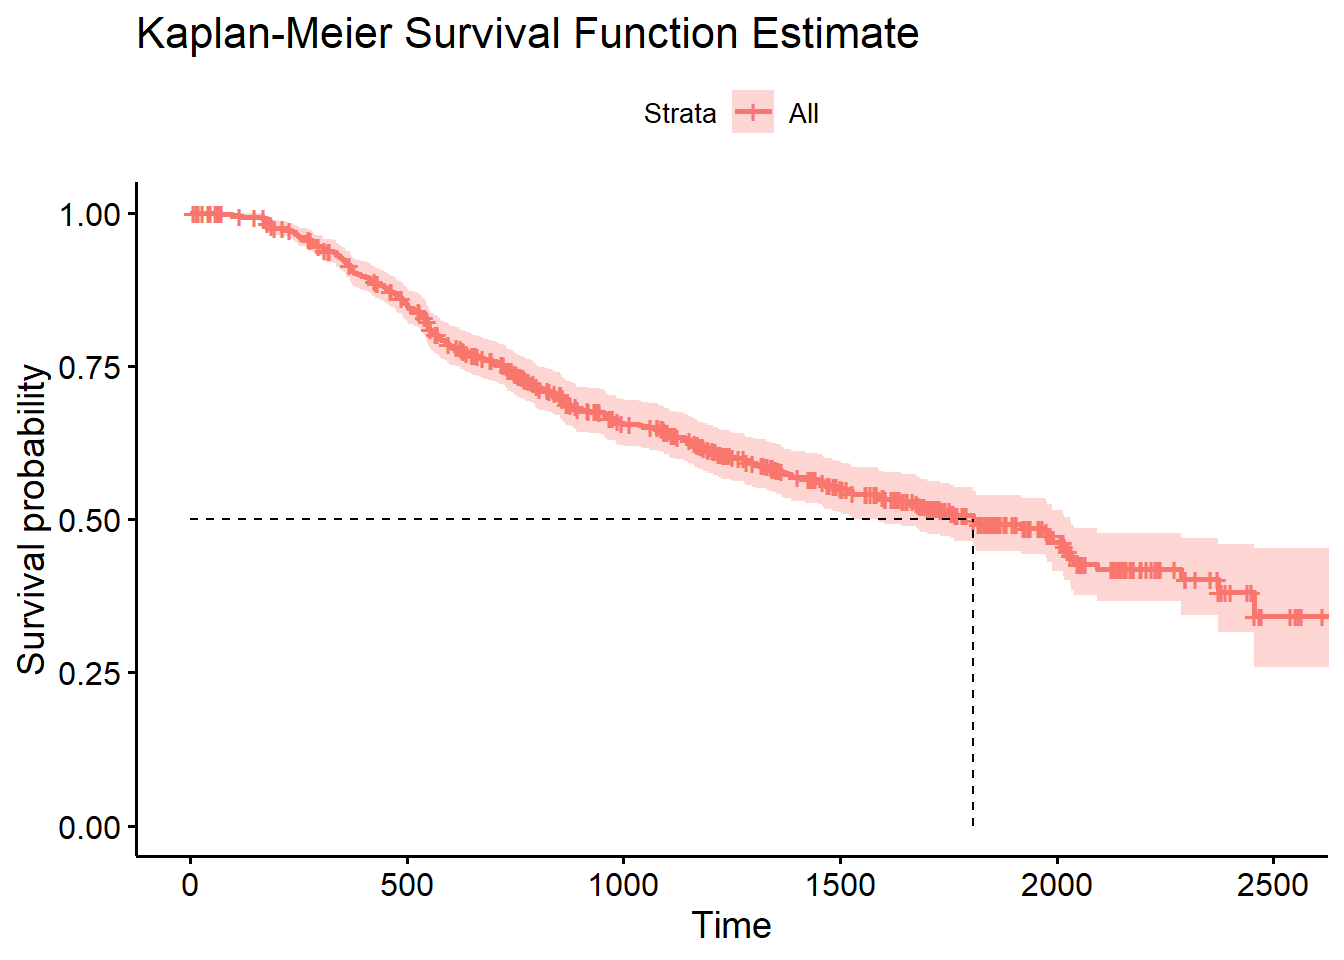
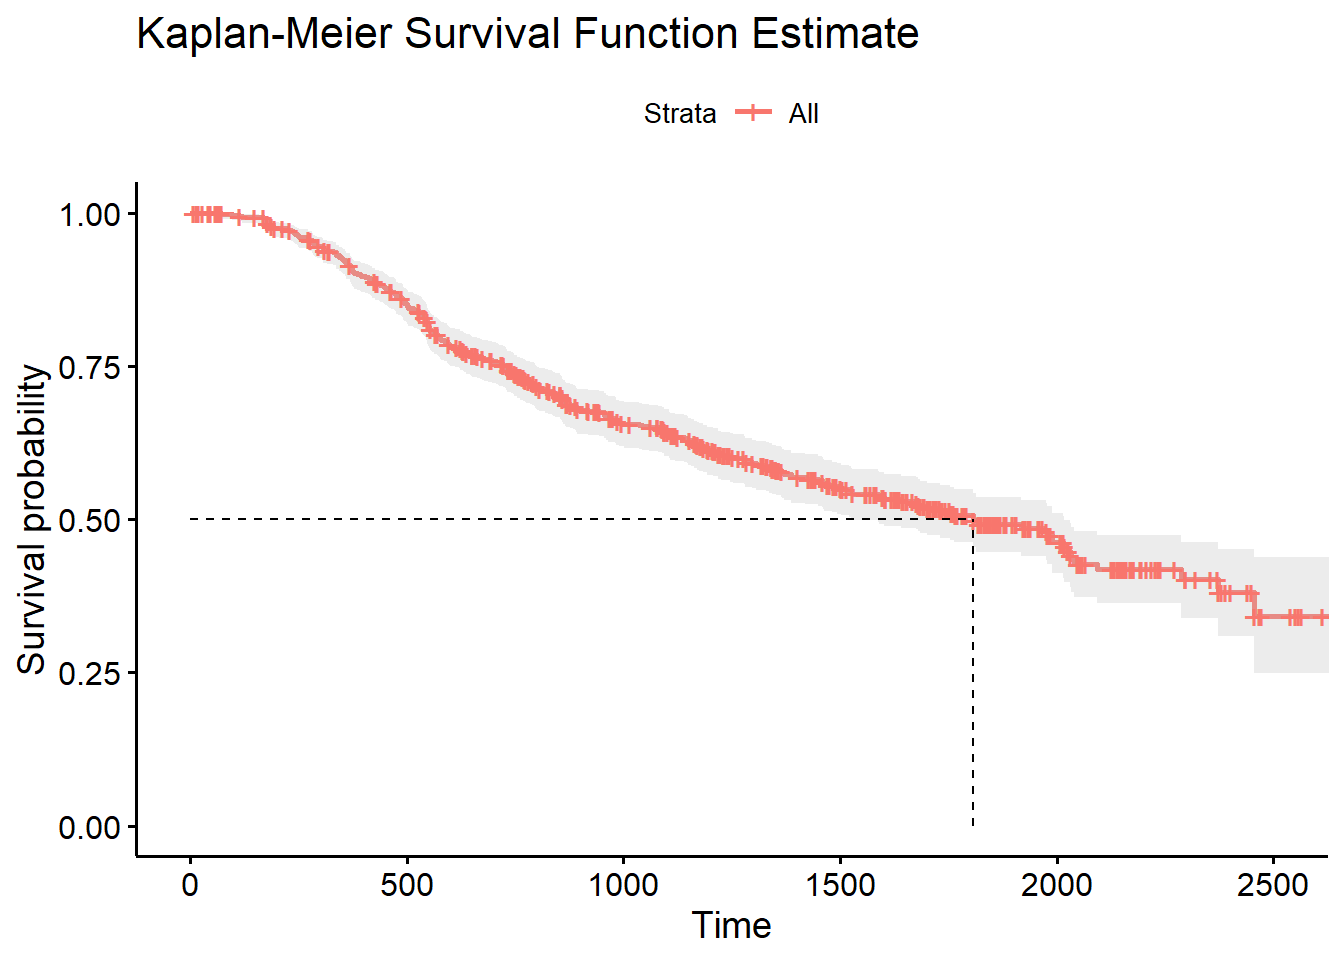
Finished Kaplan-Meier

Changed region(s): [[0.2188, 0.2188, 1.0, 0.7188], [0.5312, 0.0938, 0.5938, 0.1562]]

diff --git a/_book/survival-curve-estimation.html b/_book/survival-curve-estimation.html
@@ -24,7 +24,7 @@
 <meta name="author" content="Michael Foley" />
 
 
-<meta name="date" content="2020-06-01" />
+<meta name="date" content="2020-06-03" />
 
   <meta name="viewport" content="width=device-width, initial-scale=1" />
   <meta name="apple-mobile-web-app-capable" content="yes" />
@@ -258,6 +258,8 @@ code span.wa { color: #60a0b0; font-weight: bold; font-style: italic; } /* Warni
 <li class="chapter" data-level="14.1" data-path="survival-theory.html"><a href="survival-theory.html"><i class="fa fa-check"></i><b>14.1</b> Survival Theory</a></li>
 <li class="chapter" data-level="14.2" data-path="survival-curve-estimation.html"><a href="survival-curve-estimation.html"><i class="fa fa-check"></i><b>14.2</b> Survival Curve Estimation</a><ul>
 <li class="chapter" data-level="14.2.1" data-path="survival-curve-estimation.html"><a href="survival-curve-estimation.html#kaplan-meier"><i class="fa fa-check"></i><b>14.2.1</b> Kaplan-Meier</a></li>
+<li class="chapter" data-level="14.2.2" data-path="survival-curve-estimation.html"><a href="survival-curve-estimation.html#weibull"><i class="fa fa-check"></i><b>14.2.2</b> Weibull</a></li>
+<li class="chapter" data-level="14.2.3" data-path="survival-curve-estimation.html"><a href="survival-curve-estimation.html#cox"><i class="fa fa-check"></i><b>14.2.3</b> Cox</a></li>
 </ul></li>
 <li class="chapter" data-level="14.3" data-path="survival-curve-estimation-1.html"><a href="survival-curve-estimation-1.html"><i class="fa fa-check"></i><b>14.3</b> Survival Curve Estimation</a></li>
 <li class="chapter" data-level="14.4" data-path="proportional-hazards-model.html"><a href="proportional-hazards-model.html"><i class="fa fa-check"></i><b>14.4</b> Proportional Hazards Model</a><ul>
@@ -308,8 +310,8 @@ code span.wa { color: #60a0b0; font-weight: bold; font-style: italic; } /* Warni
 <h3><span class="header-section-number">14.2.1</span> Kaplan-Meier</h3>
 <p>The Kaplan-Meier estimator for the survival function is</p>
 <p><span class="math display">\[\hat{S} = \prod_{i: t_i &lt; t}{\frac{n_i - d_i}{n_i}}\]</span></p>
-<p>where <span class="math inline">\(n_i\)</span> is the number of persons under observation at time <span class="math inline">\(i\)</span> and <span class="math inline">\(d_i\)</span> is the number of individuals dying at time <span class="math inline">\(i\)</span>. The Kaplan-Meier curve falls only when a subject dies, not when a subject is censored. Calculate the Kaplan-Meier estimate with the <code>survfit()</code> function.</p>
-<p>Here is an example of a Kaplan-Meier survival function estimate. <code>GBSG2</code> contains time to death of 686 breast cancer patients. Column <code>cens</code> indicates whether or not a person in the study has died (0-censored, 1-event).</p>
+<p>where <span class="math inline">\(n_i\)</span> is the number of persons under observation at time <span class="math inline">\(i\)</span> and <span class="math inline">\(d_i\)</span> is the number of individuals dying at time <span class="math inline">\(i\)</span>. The Kaplan-Meier curve falls only when a subject dies, not when a subject is censored. Confidence limits can be calculated using the “delta” method to obtain the variance of <span class="math inline">\(\log \left(\hat{S}(t) \right)\)</span> (see p27 of Moore).</p>
+<p>Calculate the Kaplan-Meier survival function estimate with the <code>survfit()</code> function. Here is an example. <code>GBSG2</code> contains time to death of 686 breast cancer patients. Column <code>cens</code> indicates whether or not a person in the study has died (0-censored, 1-event).</p>
 <div class="sourceCode" id="cb2"><pre class="sourceCode r"><code class="sourceCode r"><span id="cb2-1"><a href="survival-curve-estimation.html#cb2-1"></a><span class="kw">data</span>(GBSG2, <span class="dt">package =</span> <span class="st">&quot;TH.data&quot;</span>)</span>
 <span id="cb2-2"><a href="survival-curve-estimation.html#cb2-2"></a><span class="kw">head</span>(GBSG2)</span></code></pre></div>
 <pre><code>##   horTh age menostat tsize tgrade pnodes progrec estrec time cens
@@ -320,20 +322,32 @@ code span.wa { color: #60a0b0; font-weight: bold; font-style: italic; } /* Warni
 ## 5    no  73     Post    35     II      1      26     65  772    1
 ## 6    no  32      Pre    57    III     24       0     13  448    1</code></pre>
 <p><code>survfit()</code> creates survival curves from a formula or from a previously fitted Cox model. The formula below is an intercept-only model. Structure the response variable as a <code>Surv</code> object.</p>
-<div class="sourceCode" id="cb4"><pre class="sourceCode r"><code class="sourceCode r"><span id="cb4-1"><a href="survival-curve-estimation.html#cb4-1"></a>km_fit &lt;-<span class="st"> </span><span class="kw">survfit</span>(<span class="kw">Surv</span>(time, cens) <span class="op">~</span><span class="st"> </span><span class="dv">1</span>, <span class="dt">data =</span> GBSG2)</span>
+<div class="sourceCode" id="cb4"><pre class="sourceCode r"><code class="sourceCode r"><span id="cb4-1"><a href="survival-curve-estimation.html#cb4-1"></a>km_fit &lt;-<span class="st"> </span><span class="kw">survfit</span>(<span class="kw">Surv</span>(time, cens) <span class="op">~</span><span class="st"> </span><span class="dv">1</span>, <span class="dt">data =</span> GBSG2, <span class="dt">conf.type =</span> <span class="st">&quot;log-log&quot;</span>)</span>
 <span id="cb4-2"><a href="survival-curve-estimation.html#cb4-2"></a>km_fit</span></code></pre></div>
-<pre><code>## Call: survfit(formula = Surv(time, cens) ~ 1, data = GBSG2)
+<pre><code>## Call: survfit(formula = Surv(time, cens) ~ 1, data = GBSG2, conf.type = &quot;log-log&quot;)
 ## 
 ##       n  events  median 0.95LCL 0.95UCL 
-##     686     299    1807    1587    2030</code></pre>
+##     686     299    1807    1528    2018</code></pre>
+<p>The <code>survfit</code> object indicates 686 records (patients), 299 events (deaths), with median survival time of 1807 days, 95% CI of (1528, 2018) days.</p>
 <p>Plot the fitted model with <code>ggsurvplot()</code>. The plus sign (“+”) indicates censored observations.</p>
 <div class="sourceCode" id="cb6"><pre class="sourceCode r"><code class="sourceCode r"><span id="cb6-1"><a href="survival-curve-estimation.html#cb6-1"></a><span class="kw">ggsurvplot</span>(</span>
 <span id="cb6-2"><a href="survival-curve-estimation.html#cb6-2"></a>  <span class="dt">fit =</span> km_fit, </span>
 <span id="cb6-3"><a href="survival-curve-estimation.html#cb6-3"></a>  <span class="dt">linetype =</span> <span class="dv">1</span>, </span>
-<span id="cb6-4"><a href="survival-curve-estimation.html#cb6-4"></a>  <span class="dt">surv.median.line =</span> <span class="st">&quot;hv&quot;</span>,</span>
+<span id="cb6-4"><a href="survival-curve-estimation.html#cb6-4"></a>  <span class="dt">surv.median.line =</span> <span class="st">&quot;hv&quot;</span>, <span class="dt">conf.int =</span> <span class="ot">TRUE</span>,</span>
 <span id="cb6-5"><a href="survival-curve-estimation.html#cb6-5"></a>  <span class="dt">title =</span> <span class="st">&quot;Kaplan-Meier Survival Function Estimate&quot;</span></span>
 <span id="cb6-6"><a href="survival-curve-estimation.html#cb6-6"></a>)</span></code></pre></div>
 <p><img src="data-sci_files/figure-html/unnamed-chunk-5-1.png" width="672" /></p>
+</div>
+<div id="weibull" class="section level3">
+<h3><span class="header-section-number">14.2.2</span> Weibull</h3>
+</div>
+<div id="cox" class="section level3">
+<h3><span class="header-section-number">14.2.3</span> Cox</h3>
+<p>The Cox proportional hazards model uses partial likelihood to fit a regression model to censored survival data, much like linear regression. Partial likelihood differs from a likelihood in two ways. First, it is a product of expressions, one for each failure time (censoring times do not contribute any factors). Second, the factors of a partial likelihood are conditional probabilities.</p>
+<p>The hazard function for subject <span class="math inline">\(i\)</span> at time <span class="math inline">\(t_j\)</span> is <span class="math inline">\(h_i(t_j) = h_0(t_j) \psi_i\)</span> where <span class="math inline">\(\psi_i = e^{z_i \beta}\)</span>. In the very simple case of a control group and experimental group, <span class="math inline">\(z_i = 1\)</span> for the experimental group and <span class="math inline">\(0\)</span> for the control group.</p>
+<p>Consider the first failure time, <span class="math inline">\(t_1\)</span>. The probability that patient <span class="math inline">\(i\)</span> is the one to fail is the proportion of patient <span class="math inline">\(i\)</span>’s hazard divided by the sum of the hazards of all <span class="math inline">\(R_1\)</span> patients at risk,</p>
+<p><span class="math display">\[p_1 = \frac{h_i(t_1)}{\sum_{k \in R_1} h_k(t_1)} = \frac{h_0(t_1) \psi_i}{\sum_{k \in R_1} h_0(t_1) \psi_k} = \frac{\psi_i}{\sum_{k \in R_1} \psi_k}\]</span></p>
+<p>The next failure event has a reduced <span class="math inline">\(R_2\)</span> patients at risk. The partial likelihood for the <span class="math inline">\(D\)</span> failure times is the product <span class="math inline">\(L_i = p_1 p_2 \cdots p_D\)</span>. Use maximum partial likelihood estimation to find the value of <span class="math inline">\(\phi\)</span> that maximizes the likelihood function.</p>
 <p>Several parametric distributions are available for modeling survival data. The exponential distribution is the easiest to use because it has a constant hazard <span class="math inline">\(h(t) = \lambda\)</span>. The cumulative hazard is <span class="math inline">\(H(t) = \int_0^t \lambda dt = \lambda t\)</span> and the corresponding survival function is</p>
 <p><span class="math display">\[S(t) = e^{-H(t)} = e^{-\lambda t}.\]</span></p>
 <p>The expected survival time is <span class="math inline">\(E(T) = \int_0^\infty S(t)dt = \int_0^\infty d^{-\lambda t} dt = 1 / \lambda.\)</span>. The median survival time is <span class="math inline">\(S(t) = e^{-\lambda t} = 0.5\)</span>, or <span class="math inline">\(t_{med} = \log(2) / \lambda\)</span>.</p>

diff --git a/_book/survival-theory.html b/_book/survival-theory.html
@@ -24,7 +24,7 @@
 <meta name="author" content="Michael Foley" />
 
 
-<meta name="date" content="2020-06-01" />
+<meta name="date" content="2020-06-03" />
 
   <meta name="viewport" content="width=device-width, initial-scale=1" />
   <meta name="apple-mobile-web-app-capable" content="yes" />
@@ -258,6 +258,8 @@ code span.wa { color: #60a0b0; font-weight: bold; font-style: italic; } /* Warni
 <li class="chapter" data-level="14.1" data-path="survival-theory.html"><a href="survival-theory.html"><i class="fa fa-check"></i><b>14.1</b> Survival Theory</a></li>
 <li class="chapter" data-level="14.2" data-path="survival-curve-estimation.html"><a href="survival-curve-estimation.html"><i class="fa fa-check"></i><b>14.2</b> Survival Curve Estimation</a><ul>
 <li class="chapter" data-level="14.2.1" data-path="survival-curve-estimation.html"><a href="survival-curve-estimation.html#kaplan-meier"><i class="fa fa-check"></i><b>14.2.1</b> Kaplan-Meier</a></li>
+<li class="chapter" data-level="14.2.2" data-path="survival-curve-estimation.html"><a href="survival-curve-estimation.html#weibull"><i class="fa fa-check"></i><b>14.2.2</b> Weibull</a></li>
+<li class="chapter" data-level="14.2.3" data-path="survival-curve-estimation.html"><a href="survival-curve-estimation.html#cox"><i class="fa fa-check"></i><b>14.2.3</b> Cox</a></li>
 </ul></li>
 <li class="chapter" data-level="14.3" data-path="survival-curve-estimation-1.html"><a href="survival-curve-estimation-1.html"><i class="fa fa-check"></i><b>14.3</b> Survival Curve Estimation</a></li>
 <li class="chapter" data-level="14.4" data-path="proportional-hazards-model.html"><a href="proportional-hazards-model.html"><i class="fa fa-check"></i><b>14.4</b> Proportional Hazards Model</a><ul>
@@ -304,11 +306,11 @@ code span.wa { color: #60a0b0; font-weight: bold; font-style: italic; } /* Warni
 <div id="survival-theory" class="section level2">
 <h2><span class="header-section-number">14.1</span> Survival Theory</h2>
 <p>This section reviews the fundamentals of survival analysis, including the hazard probability density, and survival functions.</p>
-<p>You can specify the survival distribution function either as a <em>survival function</em> or as a <em>hazard function</em>. The survival function is the probability of surviving up to time <span class="math inline">\(t\)</span>,</p>
-<p><span class="math display">\[S(t) = 1 - F(t) = pr(T &gt; t), \hspace{3mm} 0 &lt; t &lt; \infty\]</span></p>
-<p>where <span class="math inline">\(F(t) = Pr(T \le t), \hspace{3mm} 0 &lt; t &lt; \infty\)</span> is the cumulative risk function. The hazard function is the instantaneous death rate given survival up to time <span class="math inline">\(t\)</span>,</p>
+<p>You can specify the survival distribution function either as a <em>survival function</em> or as a <em>hazard function</em>. Define <span class="math inline">\(F(t) = Pr(T \le t), \hspace{3mm} 0 &lt; t &lt; \infty\)</span> as the cumulative risk function, the probability of dying on or before time <span class="math inline">\(t\)</span>. Then the survival function is the probability of <em>surviving</em> up to time <span class="math inline">\(t\)</span>,</p>
+<p><span class="math display">\[S(t) = 1 - F(t) = pr(T &gt; t), \hspace{3mm} 0 &lt; t &lt; \infty.\]</span></p>
+<p>The hazard function is the instantaneous death rate given survival up to time <span class="math inline">\(t\)</span>,</p>
 <p><span class="math display">\[h(t) = \lim_{\delta \rightarrow 0}{\frac{pr(t &lt; T &lt; t + \delta|T &gt; t)}{\delta}}.\]</span></p>
-<p>The survival function and the hazard function are related. The probability of dying during the interval <span class="math inline">\((t, t + \delta)\)</span>, <span class="math inline">\(f(t) = F&#39;(t)\)</span>, is the probability of dying during <span class="math inline">\(t + \delta\)</span> given survival up to point <span class="math inline">\(t\)</span> times the probability of surviving up to point <span class="math inline">\(t\)</span>, <span class="math inline">\(f(t) = h(t) S(t)\)</span>.</p>
+<p>The survival function and the hazard function are related. The probability of dying during the interval <span class="math inline">\((t, t + \delta)\)</span>, <span class="math inline">\(f(t) = F&#39;(t)\)</span>, is the probability of dying during the interval given survival up to point <span class="math inline">\(t\)</span> times the probability of surviving up to point <span class="math inline">\(t\)</span>, <span class="math inline">\(f(t) = h(t) S(t)\)</span>.</p>
 <p><span class="math inline">\(S(t)\)</span> is also the exponent of the negative cumulative hazard function,</p>
 <p><span class="math display">\[S(t) = e^{-H(t)}.\]</span></p>
 <p>You can use the survival function to estimate the mean and median survival times. The mean survival time is <span class="math inline">\(E(T) = \int S(t)dt\)</span>. The median survival time is <span class="math inline">\(S(t) = 0.5\)</span>.</p>

diff --git a/_book/survival-analysis.html b/_book/survival-analysis.html
@@ -24,7 +24,7 @@
 <meta name="author" content="Michael Foley" />
 
 
-<meta name="date" content="2020-06-01" />
+<meta name="date" content="2020-06-03" />
 
   <meta name="viewport" content="width=device-width, initial-scale=1" />
   <meta name="apple-mobile-web-app-capable" content="yes" />
@@ -258,6 +258,8 @@ code span.wa { color: #60a0b0; font-weight: bold; font-style: italic; } /* Warni
 <li class="chapter" data-level="14.1" data-path="survival-theory.html"><a href="survival-theory.html"><i class="fa fa-check"></i><b>14.1</b> Survival Theory</a></li>
 <li class="chapter" data-level="14.2" data-path="survival-curve-estimation.html"><a href="survival-curve-estimation.html"><i class="fa fa-check"></i><b>14.2</b> Survival Curve Estimation</a><ul>
 <li class="chapter" data-level="14.2.1" data-path="survival-curve-estimation.html"><a href="survival-curve-estimation.html#kaplan-meier"><i class="fa fa-check"></i><b>14.2.1</b> Kaplan-Meier</a></li>
+<li class="chapter" data-level="14.2.2" data-path="survival-curve-estimation.html"><a href="survival-curve-estimation.html#weibull"><i class="fa fa-check"></i><b>14.2.2</b> Weibull</a></li>
+<li class="chapter" data-level="14.2.3" data-path="survival-curve-estimation.html"><a href="survival-curve-estimation.html#cox"><i class="fa fa-check"></i><b>14.2.3</b> Cox</a></li>
 </ul></li>
 <li class="chapter" data-level="14.3" data-path="survival-curve-estimation-1.html"><a href="survival-curve-estimation-1.html"><i class="fa fa-check"></i><b>14.3</b> Survival Curve Estimation</a></li>
 <li class="chapter" data-level="14.4" data-path="proportional-hazards-model.html"><a href="proportional-hazards-model.html"><i class="fa fa-check"></i><b>14.4</b> Proportional Hazards Model</a><ul>
@@ -303,9 +305,9 @@ code span.wa { color: #60a0b0; font-weight: bold; font-style: italic; } /* Warni
             <section class="normal" id="section-">
 <div id="survival-analysis" class="section level1">
 <h1><span class="header-section-number">Chapter 14</span> Survival Analysis</h1>
-<p>These notes rely on the <a href="https://campus.datacamp.com/courses/survival-analysis-in-r">Survival Analysis in R</a> DataCamp course and Applied Survival Analysis Using R by Dirk Moore <span class="citation">(Moore <a href="#ref-Moore2016" role="doc-biblioref">2016</a>)</span>.</p>
+<p>These notes rely on the <a href="https://campus.datacamp.com/courses/survival-analysis-in-r">Survival Analysis in R</a> DataCamp course and Applied Survival Analysis Using R <span class="citation">(Moore <a href="#ref-Moore2016" role="doc-biblioref">2016</a>)</span>.</p>
 <p>Survival analysis models time to event. Whereas linear regression outcomes are assumed to have a normal distribution, time-to-event outcomes are assumed to have a Weibull or exponential distribution. Survival analysis also deals with censoring (unknown starting event and/or ending event).</p>
-<p>Most surival analysis uses the <code>survival</code> package for modeling and the <code>survminer</code> package for visualization.</p>
+<p>Most survival analyses use the <code>survival</code> package for modeling and the <code>survminer</code> package for visualization.</p>
 <div class="sourceCode" id="cb1"><pre class="sourceCode r"><code class="sourceCode r"><span id="cb1-1"><a href="survival-analysis.html#cb1-1"></a><span class="kw">library</span>(tidyverse)</span>
 <span id="cb1-2"><a href="survival-analysis.html#cb1-2"></a><span class="kw">library</span>(survival)</span>
 <span id="cb1-3"><a href="survival-analysis.html#cb1-3"></a><span class="kw">library</span>(survminer)</span></code></pre></div>

diff --git a/_book/proportional-hazards-model.html b/_book/proportional-hazards-model.html
@@ -24,7 +24,7 @@
 <meta name="author" content="Michael Foley" />
 
 
-<meta name="date" content="2020-06-01" />
+<meta name="date" content="2020-06-03" />
 
   <meta name="viewport" content="width=device-width, initial-scale=1" />
   <meta name="apple-mobile-web-app-capable" content="yes" />
@@ -258,6 +258,8 @@ code span.wa { color: #60a0b0; font-weight: bold; font-style: italic; } /* Warni
 <li class="chapter" data-level="14.1" data-path="survival-theory.html"><a href="survival-theory.html"><i class="fa fa-check"></i><b>14.1</b> Survival Theory</a></li>
 <li class="chapter" data-level="14.2" data-path="survival-curve-estimation.html"><a href="survival-curve-estimation.html"><i class="fa fa-check"></i><b>14.2</b> Survival Curve Estimation</a><ul>
 <li class="chapter" data-level="14.2.1" data-path="survival-curve-estimation.html"><a href="survival-curve-estimation.html#kaplan-meier"><i class="fa fa-check"></i><b>14.2.1</b> Kaplan-Meier</a></li>
+<li class="chapter" data-level="14.2.2" data-path="survival-curve-estimation.html"><a href="survival-curve-estimation.html#weibull"><i class="fa fa-check"></i><b>14.2.2</b> Weibull</a></li>
+<li class="chapter" data-level="14.2.3" data-path="survival-curve-estimation.html"><a href="survival-curve-estimation.html#cox"><i class="fa fa-check"></i><b>14.2.3</b> Cox</a></li>
 </ul></li>
 <li class="chapter" data-level="14.3" data-path="survival-curve-estimation-1.html"><a href="survival-curve-estimation-1.html"><i class="fa fa-check"></i><b>14.3</b> Survival Curve Estimation</a></li>
 <li class="chapter" data-level="14.4" data-path="proportional-hazards-model.html"><a href="proportional-hazards-model.html"><i class="fa fa-check"></i><b>14.4</b> Proportional Hazards Model</a><ul>

diff --git a/_book/survival-curve-estimation-1.html b/_book/survival-curve-estimation-1.html
@@ -24,7 +24,7 @@
 <meta name="author" content="Michael Foley" />
 
 
-<meta name="date" content="2020-06-01" />
+<meta name="date" content="2020-06-03" />
 
   <meta name="viewport" content="width=device-width, initial-scale=1" />
   <meta name="apple-mobile-web-app-capable" content="yes" />
@@ -258,6 +258,8 @@ code span.wa { color: #60a0b0; font-weight: bold; font-style: italic; } /* Warni
 <li class="chapter" data-level="14.1" data-path="survival-theory.html"><a href="survival-theory.html"><i class="fa fa-check"></i><b>14.1</b> Survival Theory</a></li>
 <li class="chapter" data-level="14.2" data-path="survival-curve-estimation.html"><a href="survival-curve-estimation.html"><i class="fa fa-check"></i><b>14.2</b> Survival Curve Estimation</a><ul>
 <li class="chapter" data-level="14.2.1" data-path="survival-curve-estimation.html"><a href="survival-curve-estimation.html#kaplan-meier"><i class="fa fa-check"></i><b>14.2.1</b> Kaplan-Meier</a></li>
+<li class="chapter" data-level="14.2.2" data-path="survival-curve-estimation.html"><a href="survival-curve-estimation.html#weibull"><i class="fa fa-check"></i><b>14.2.2</b> Weibull</a></li>
+<li class="chapter" data-level="14.2.3" data-path="survival-curve-estimation.html"><a href="survival-curve-estimation.html#cox"><i class="fa fa-check"></i><b>14.2.3</b> Cox</a></li>
 </ul></li>
 <li class="chapter" data-level="14.3" data-path="survival-curve-estimation-1.html"><a href="survival-curve-estimation-1.html"><i class="fa fa-check"></i><b>14.3</b> Survival Curve Estimation</a></li>
 <li class="chapter" data-level="14.4" data-path="proportional-hazards-model.html"><a href="proportional-hazards-model.html"><i class="fa fa-check"></i><b>14.4</b> Proportional Hazards Model</a><ul>
